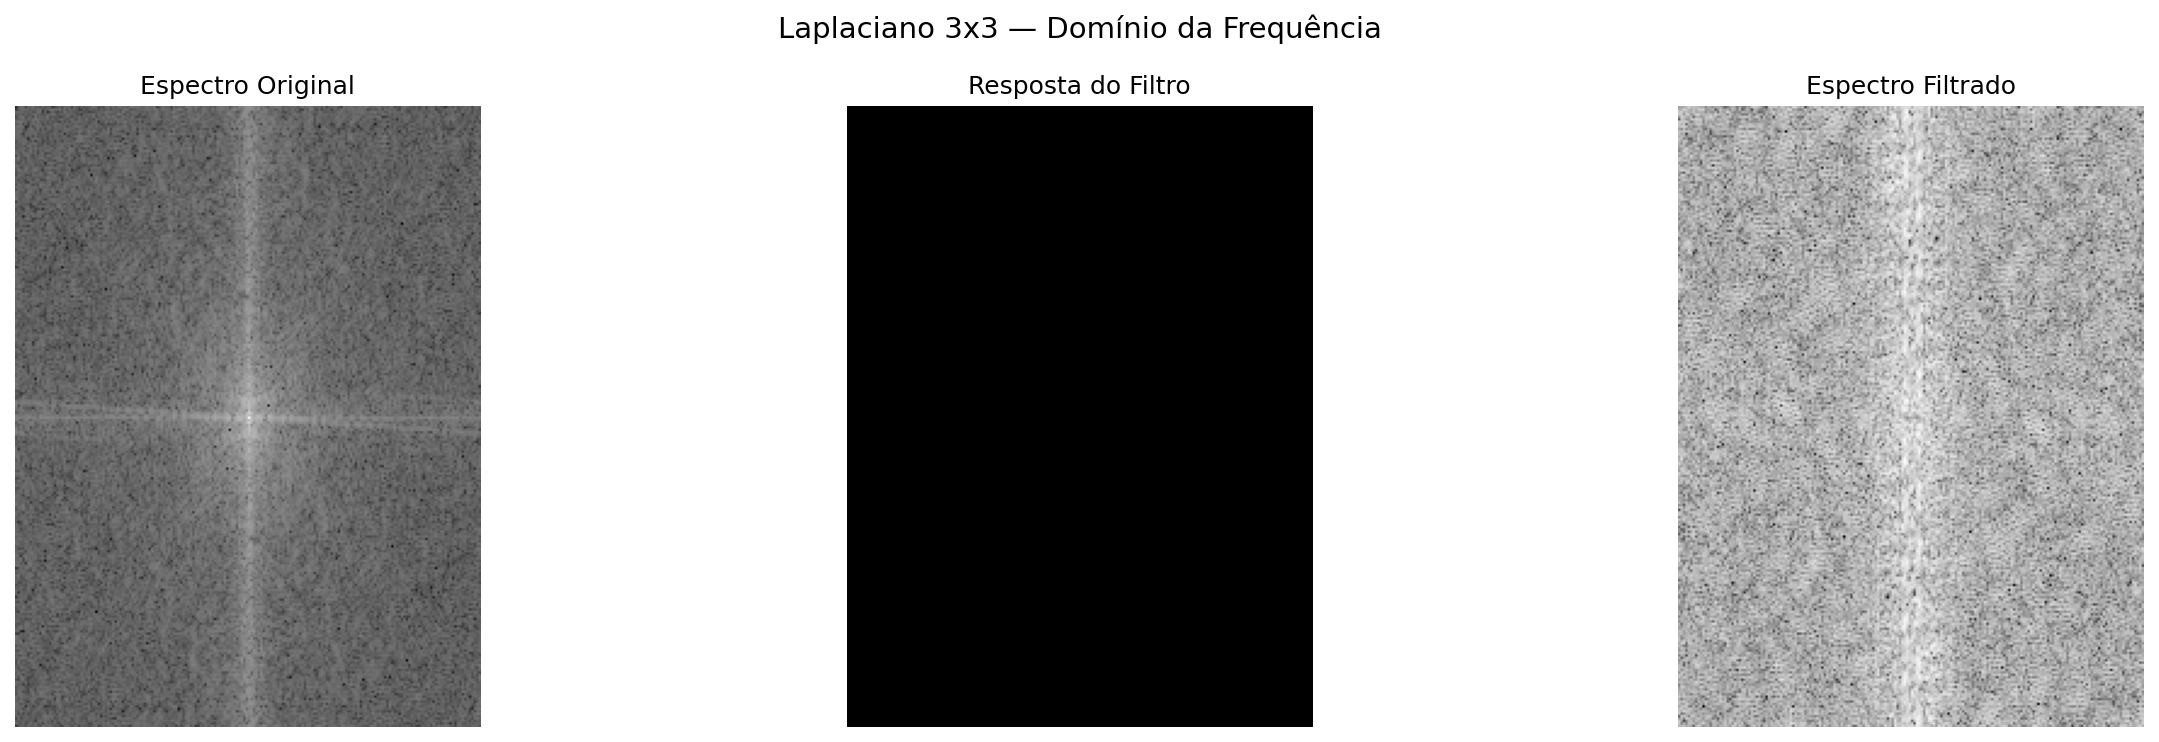
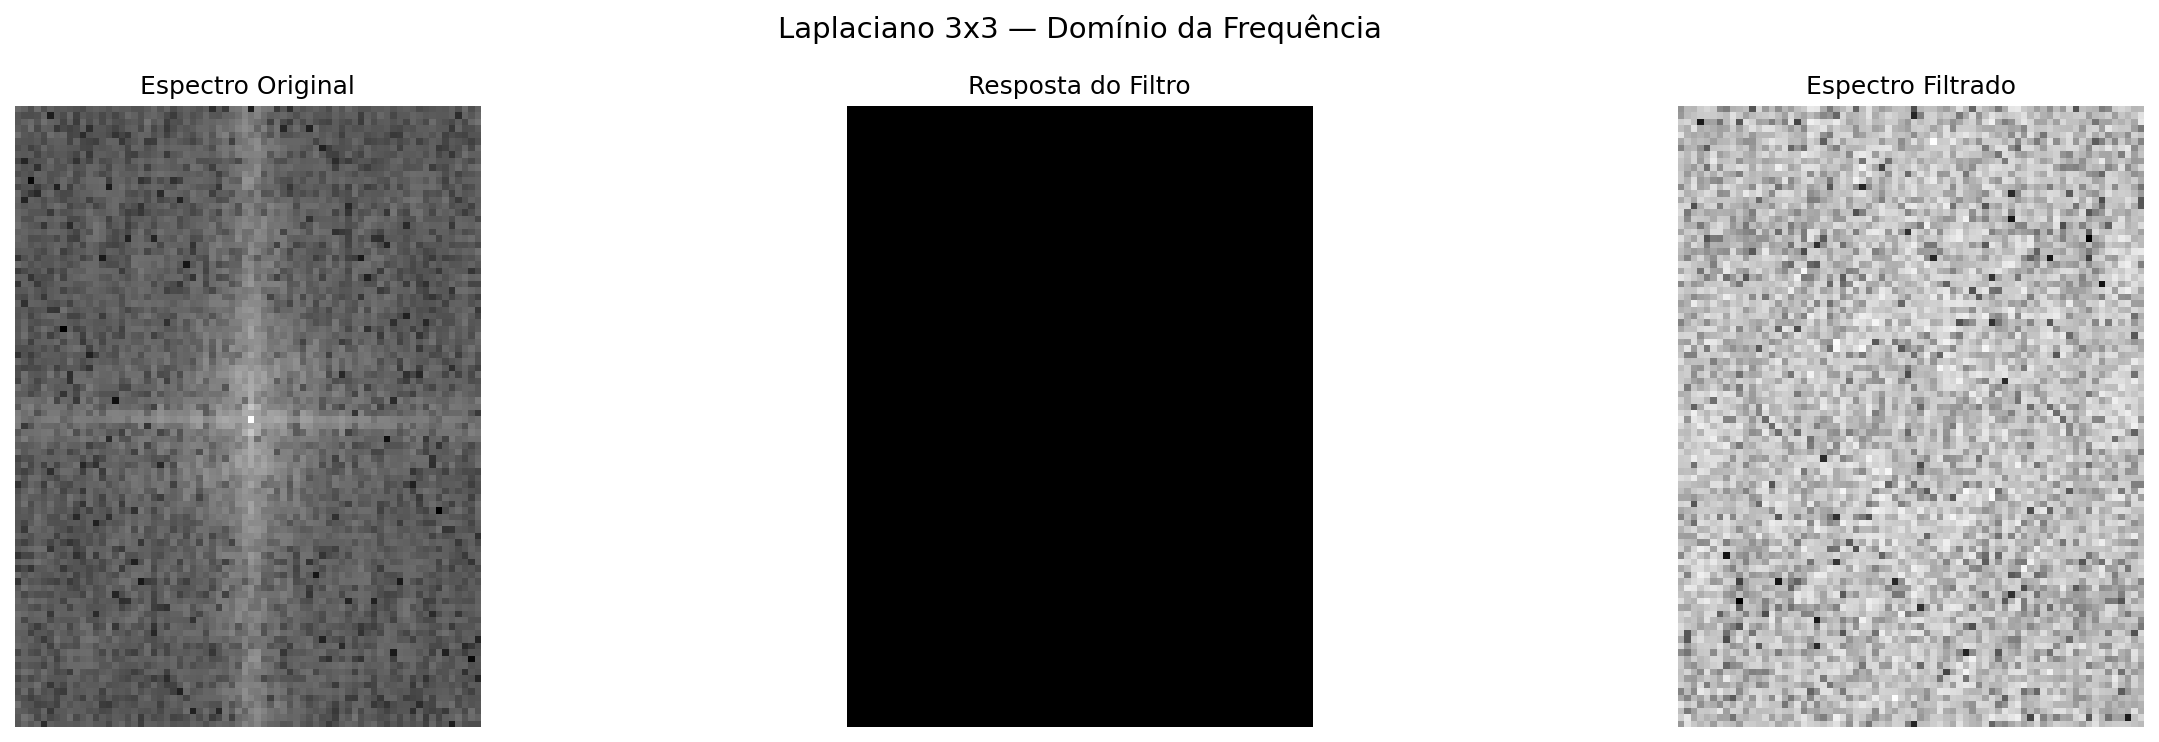
Segunda otimizacao

Changed region(s): [[0.7758, 0.124, 0.9931, 0.9919], [0.0, 0.124, 0.2172, 0.9919]]

diff --git a/trabalho3/trabalho3.py b/trabalho3/trabalho3.py
@@ -27,6 +27,10 @@ os.makedirs(DIR_RESULTADOS, exist_ok=True)
 # Se False, não abre janelas; apenas salva arquivos em resultados/
 SHOW_PLOTS = False
 
+# Limite para DFT manual usada em espectros/resposta em frequência (Parte I).
+# Mantém os gráficos rápidos mesmo para imagens grandes.
+DFT_MAX_SIZE = 96
+
 
 # ============================================================
 # Funções Utilitárias
@@ -79,7 +83,7 @@ def show_side_by_side(img1, img2, t1="Original", t2="Resultado", save_path=None)
     plt.close(fig)
 
 
-def compute_spectrum(img):
+def compute_spectrum(img, max_size=DFT_MAX_SIZE):
     """
     Retorna espectro de magnitude (log, centralizado) e fase.
 
@@ -89,7 +93,7 @@ def compute_spectrum(img):
     (por amostragem) quando a imagem é grande.
     """
     img = img.astype(float)
-    img_small = downsample_for_dft(img, max_size=256)
+    img_small = downsample_for_dft(img, max_size=max_size)
     F = fftshift2(dft2d(img_small))
     magnitude = np.log2(np.abs(F) + 1e-6)
     phase = np.angle(F)
@@ -238,7 +242,7 @@ def filter_frequency_response(kernel, img_shape):
     padded = np.zeros(img_shape, dtype=float)
     kh, kw = kernel.shape
     padded[:kh, :kw] = kernel
-    padded_small = downsample_for_dft(padded, max_size=256)
+    padded_small = downsample_for_dft(padded, max_size=DFT_MAX_SIZE)
     F = fftshift2(dft2d(padded_small))
     return np.log2(np.abs(F) + 1e-6)
 
@@ -274,7 +278,7 @@ def demo_padding(img, kernel, filter_name, save_prefix):
     print(f"  Salvo: {path}")
 
 
-def demo_frequency(img, kernel, filter_name, save_prefix):
+def demo_frequency(img, kernel, filter_name, save_prefix, mag_orig=None):
     """Mostra espectro antes/depois do filtro e resposta em frequência do kernel."""
     result = convolve(img, kernel, padding_mode='reflect')
 
@@ -282,7 +286,8 @@ def demo_frequency(img, kernel, filter_name, save_prefix):
     fig.suptitle(f"{filter_name} — Domínio da Frequência", fontsize=14)
 
     # Espectro original
-    mag_orig, _ = compute_spectrum(img)
+    if mag_orig is None:
+        mag_orig, _ = compute_spectrum(img)
     axes[0].imshow(mag_orig, cmap='gray')
     axes[0].set_title("Espectro Original")
     axes[0].axis('off')
@@ -328,7 +333,7 @@ def demo_filter(img, kernel, filter_name, save_prefix):
     demo_frequency(img, kernel, filter_name, save_prefix)
 
 
-def demo_process(img, process_fn, process_name, save_prefix, **kwargs):
+def demo_process(img, process_fn, process_name, save_prefix, mag_orig=None, **kwargs):
     """Demonstração de um processo (sobel magnitude, sharpen, unsharp)."""
     print(f"\n{'='*60}")
     print(f"  {process_name}")
@@ -361,7 +366,8 @@ def demo_process(img, process_fn, process_name, save_prefix, **kwargs):
     # Espectro antes/depois
     fig, axes = plt.subplots(1, 2, figsize=(12, 5))
     fig.suptitle(f"{process_name} — Espectro Antes e Depois", fontsize=14)
-    mag_orig, _ = compute_spectrum(img)
+    if mag_orig is None:
+        mag_orig, _ = compute_spectrum(img)
     axes[0].imshow(mag_orig, cmap='gray')
     axes[0].set_title("Espectro Original")
     axes[0].axis('off')
@@ -388,6 +394,9 @@ def run_parte1(img_path):
     show_bw(img, "Imagem Original",
             save_path=os.path.join(DIR_RESULTADOS, "original.png"))
 
+    # Cache: espectro original (DFT manual é caro; reaproveitar em todas as demos)
+    mag_orig, _ = compute_spectrum(img)
+
     # Filtros simples (kernel direto)
     filtros = [
         (shift_kernel(11), "Shift 11x11", "01_shift"),
@@ -398,10 +407,22 @@ def run_parte1(img_path):
     ]
 
     for kernel, name, prefix in filtros:
-        demo_filter(img, kernel, name, prefix)
+        # demo_filter chama demo_frequency; passamos o espectro original para evitar recomputar
+        print(f"\n{'='*60}")
+        print(f"  {name}")
+        print(f"{'='*60}")
+
+        result = convolve(img, kernel, padding_mode='reflect')
+        result_show = norm_minmax(result).astype(np.uint8)
+        path = os.path.join(DIR_RESULTADOS, f"{prefix}_resultado.png")
+        show_side_by_side(img, result_show, "Original", name, save_path=path)
+        print(f"  Salvo: {path}")
+
+        demo_padding(img, kernel, name, prefix)
+        demo_frequency(img, kernel, name, prefix, mag_orig=mag_orig)
 
     # Sobel (magnitude de dois kernels)
-    demo_process(img, sobel_magnitude, "Sobel (Magnitude)", "05_sobel")
+    demo_process(img, sobel_magnitude, "Sobel (Magnitude)", "05_sobel", mag_orig=mag_orig)
 
     # Frequência do Sobel — mostramos os dois kernels
     fig, axes = plt.subplots(1, 2, figsize=(12, 5))
@@ -421,11 +442,11 @@ def run_parte1(img_path):
 
     # Sharpen com Laplace
     demo_process(img, sharpen_laplace, "Sharpen (Laplace, alpha=0.5)",
-                 "06_sharpen_laplace", alpha=0.5)
+                 "06_sharpen_laplace", mag_orig=mag_orig, alpha=0.5)
 
     # Unsharp Mask
     demo_process(img, sharpen_unsharp, "Unsharp Mask (sigma=2, alpha=1.5)",
-                 "07_unsharp_mask", size=5, sigma=2.0, alpha=1.5)
+                 "07_unsharp_mask", mag_orig=mag_orig, size=5, sigma=2.0, alpha=1.5)
 
 
 # ============================================================
